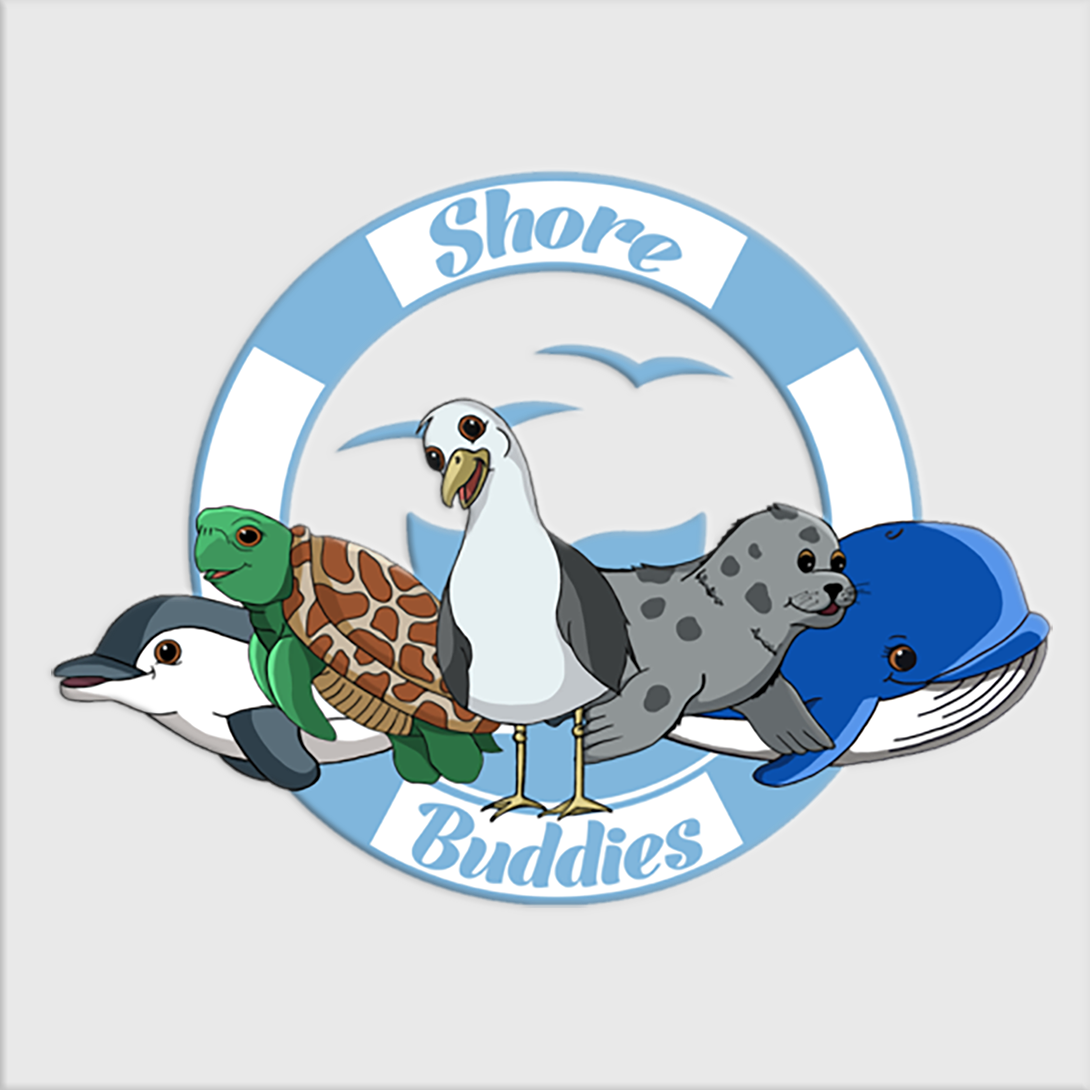
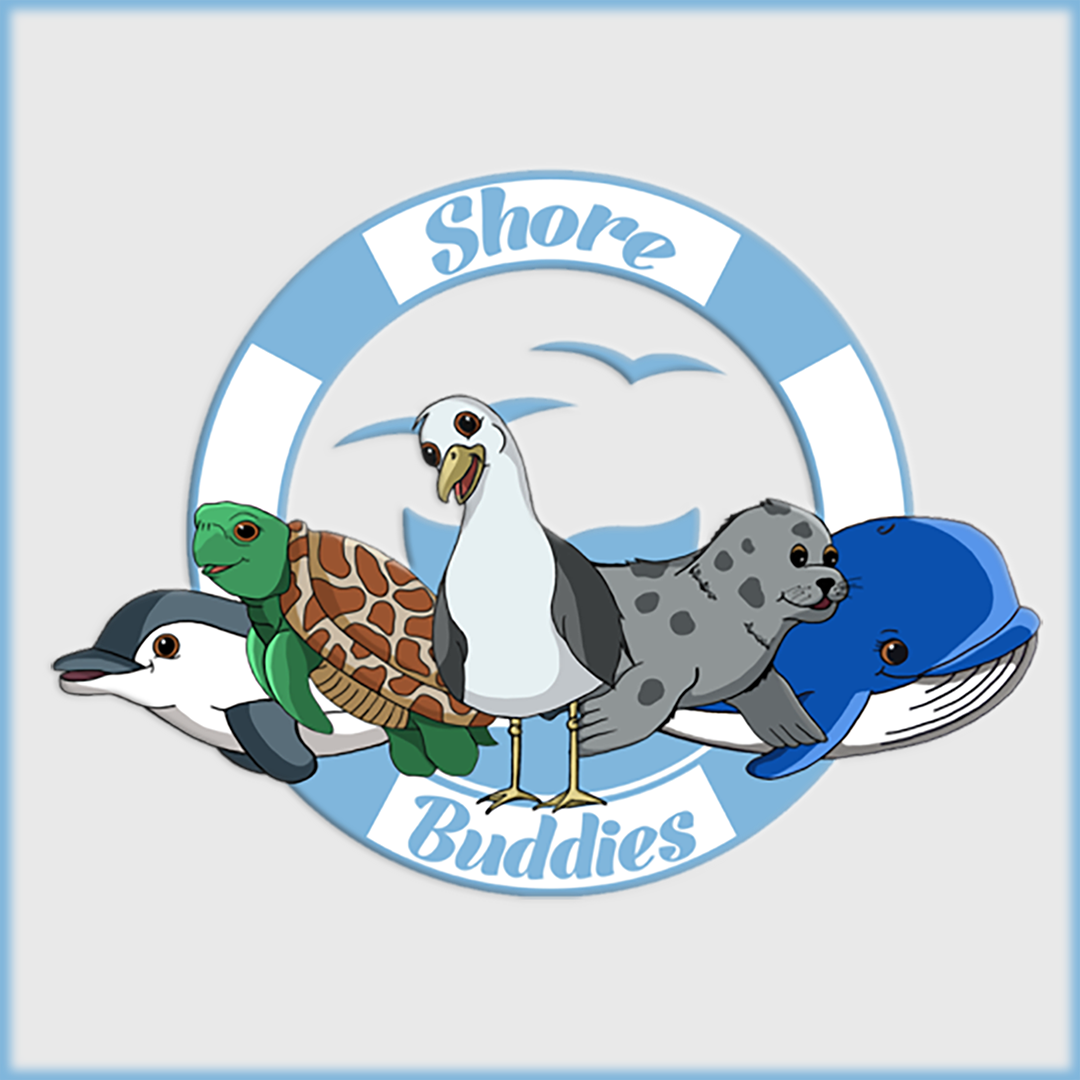
Resize image from 1090px to 1080px to match canvas size

Changed region(s): [[0.0, 0.0, 1.0, 1.0]]

diff --git a/Assets/Scripts/PuzzleIntroControl.cs b/Assets/Scripts/PuzzleIntroControl.cs
@@ -11,6 +11,7 @@ public class PuzzleIntroControl : MonoBehaviour
     Texture2D puzzle;
     string DYKText;
     Sound DYKVoice;
+    private readonly float imageSize = 1080f;
 
     // Start is called before the first frame update
     void Start()
@@ -22,7 +23,7 @@ public class PuzzleIntroControl : MonoBehaviour
         puzzle = (Texture2D)UnityEditor.AssetDatabase.LoadAssetAtPath("Assets/PuzzleImages/Puzzle" + puzzleIndex+".png", typeof(Texture2D));
 
         //display puzzle to PuzzleField
-        Sprite newSprite = Sprite.Create(puzzle, new Rect(0, 0, 1090, 1090), new Vector2(0.5f, 0.5f));
+        Sprite newSprite = Sprite.Create(puzzle, new Rect(0, 0, imageSize, imageSize), new Vector2(0.5f, 0.5f));
         GameObject n = new GameObject();
         n.AddComponent<SpriteRenderer>();
         SpriteRenderer sr = n.GetComponent<SpriteRenderer>();

diff --git a/Assets/Scripts/GameControl.cs b/Assets/Scripts/GameControl.cs
@@ -42,7 +42,7 @@ public class GameControl : MonoBehaviour
     private readonly float durationSize3 = 30f;
     private readonly float durationSize4 = 45f;
 
-    private readonly float imageSize = 1090f;
+    private readonly float imageSize = 1080f;
 
     private int puzzleIndex;
     private int puzzleSize;
